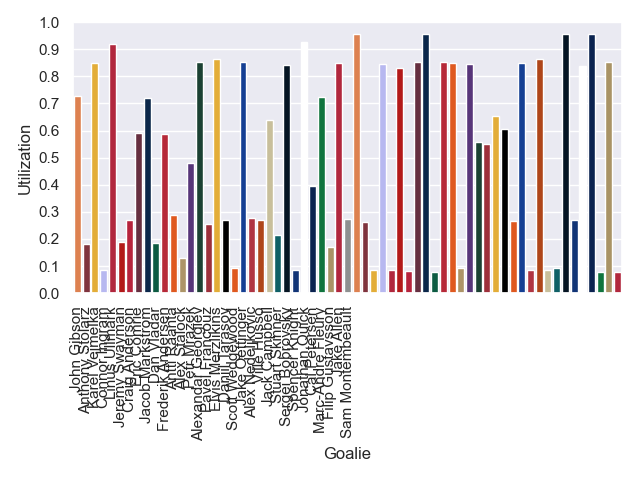
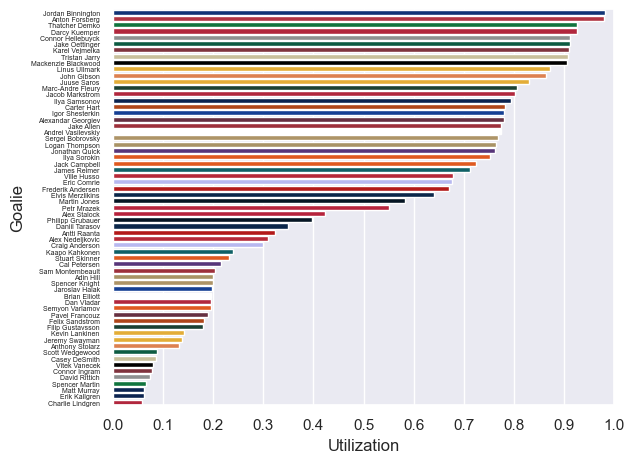
Add new file writter, plotter, update utilization -Add new file writter for player data which inclues the players team 	which is used for later lookups -Add new plotter that ranks players by the stat given and colors them 	according to the team they play for -Add Utilization division by the number o

diff --git a/Plotter.py b/Plotter.py
@@ -4,13 +4,40 @@ import pandas as pd
 import matplotlib.pyplot as plotter
 
 
-team_color_hex_codes = [
-    "#F47A38", "#8C2633", "#FFB81C", "#ADAFFA", "#C8102E", "#CC0000", "#CF0A2C",
-    "#6F263D", "#002654", "#006847", "#CE1126", "#FF4C00", "#B9975B", "#572A84",
-    "#154734", "#AF1E2D", "#FFB81C", "#000000", "#FF4C00", "#0038A8", "#C52032",
-    "#C83C01", "#CFC493", "#006D75", "#001628", "#002F87", "#FFFFFF", "#00205B",
-    "#00843D", "#B4975A", "#C8102E", "#8E9090"
-]
+team_color_hex_codes = {
+    'Anaheim Ducks' : "#F47A38",
+    'Arizona Coyotes' : "#8C2633",
+    'Boston Bruins' : "#FFB81C",
+    'Buffalo Sabres' : "#ADAFFA",
+    'Calgary Flames' : "#C8102E",
+    'Carolina Hurricanes' : "#CC0000",
+    'Chicago Blackhawks' : "#CF0A2C",
+    'Colorado Avalanche' : "#6F263D",
+    'Columbus Blue Jackets' : "#002654",
+    'Dallas Stars' : "#006847",
+    'Detroit Red Wings' : "#CE1126",
+    'Edmonton Oilers' : "#FF4C00",
+    'Florida Panthers' : "#B9975B",
+    'Los Angeles Kings' : "#572A84",
+    'Minnesota Wild' : "#154734",
+    'Montréal Canadiens' : "#AF1E2D",
+    'Nashville Predators' : "#FFB81C",
+    'New Jersey Devils' : "#000000",
+    'New York Islanders' : "#FF4C00",
+    'New York Rangers' : "#0038A8",
+    'Ottawa Senators' : "#C52032",
+    'Philadelphia Flyers' : "#C83C01",
+    'Pittsburgh Penguins' : "#CFC493",
+    'San Jose Sharks' : "#006D75",
+    'Seattle Kraken' : "#001628",
+    'St. Louis Blues' : "#002F87",
+    'Tampa Bay Lightning' : "#FFFFFF",
+    'Toronto Maple Leafs' : "#00205B",
+    'Vancouver Canucks' : "#00843D",
+    'Vegas Golden Knights' : "#B4975A",
+    'Washington Capitals' : "#C8102E",
+    'Winnipeg Jets' : "#8E9090",
+}
 
 
 def plot_data_set(csv_file : str = "", axis : list = [],
@@ -18,10 +45,10 @@ def plot_data_set(csv_file : str = "", axis : list = [],
                   tick_set : list = [], image_file : str = "") -> None:
     plot_data = pd.read_csv(csv_file, delimiter='\t', encoding='utf-8')
     sns.set_theme()
-    team_palette = sns.color_palette(team_color_hex_codes)
+    team_palette = sns.color_palette(list(team_color_hex_codes.values()))
     plot = sns.barplot(data=plot_data, x=axis[0], y=axis[1],
         palette=team_palette)
-    plot.set(xticks=range(len(team_color_hex_codes)))
+    plot.set(xticks=range(len(list(team_color_hex_codes.values()))))
     plot.set_xticklabels(plot.get_xticklabels(), rotation=90,
         horizontalalignment='center')
     plotter.tight_layout()
@@ -38,12 +65,31 @@ def plot_trend_set(csv_file : str = "", axis : list = [],
     plot_data = pd.read_csv(csv_file, delimiter=',', encoding='utf-8')
     sns.set_theme()
     plotter.figure(figsize=(25, 10), dpi=100)
-    team_palette = sns.color_palette(team_color_hex_codes)
+    team_palette = sns.color_palette(list(team_color_hex_codes.values()))
     plot = sns.lineplot(data=plot_data, x=axis[0], y=axis[1],
         hue="Team", style="Division",palette=team_palette, marker='s')
     plot.set(yticks=tick_set)
     plotter.tick_params(axis='x', which='major', labelsize=8)
     plotter.legend(bbox_to_anchor=(1.05, 1), loc='upper left', borderaxespad=0)
     plotter.ylim(lower_bound, upper_bound)
+    plotter.savefig(image_file, bbox_inches='tight')
+    plotter.clf()
+
+def plot_player_ranking(csv_file : str = "", axis : list = [],
+                        upper_bound : float = 0.0, lower_bound : float = 0.0,
+                        tick_set : list = [], image_file : str = "") -> None:
+    plot_data = pd.read_csv(csv_file, delimiter='\t', encoding='utf-8')
+    plot_data = plot_data.sort_values(axis[1], ascending=False)
+    sns.set_theme()
+    player_color_sorted_list = []
+    for player in plot_data.loc[:,"Team"]:
+        player_color_sorted_list.append(team_color_hex_codes[player])
+    team_palette = sns.color_palette(player_color_sorted_list)
+    sns.barplot(data=plot_data, x=axis[1], y=axis[0], palette=team_palette)
+    plotter.tick_params(axis='y', which='major', labelsize=5)
+    plotter.tight_layout()
+    plotter.xlim(lower_bound, upper_bound)
+    if len(tick_set) > 0:
+        plotter.xticks(tick_set)
     plotter.savefig(image_file, bbox_inches='tight')
     plotter.clf()

diff --git a/Goalie_Metrics/Goalie_Utilization.py b/Goalie_Metrics/Goalie_Utilization.py
@@ -2,10 +2,11 @@ import requests
 import json
 
 if __name__ == "__main__":
-    from Goalie_List import get_active_goalies, populate_active_goalies
+    from Goalie_List import get_active_goalies, populate_active_goalies, \
+        get_team_IDs
 else:
     from Goalie_Metrics.Goalie_List import get_active_goalies, \
-        populate_active_goalies
+        populate_active_goalies, get_team_IDs
 
 goalie_utilization_ranking = {}
 
@@ -21,16 +22,25 @@ def get_time_on_ice():
     for goalie in active_goalies.keys():
         goalie_url = "https://statsapi.web.nhl.com/api/v1/people/" + \
         "{}/stats?stats=statsSingleSeason&season=20222023".format(
-            active_goalies[goalie])
+            active_goalies[goalie][0])
         web_data = requests.get(goalie_url)
         parsed_data = json.loads(web_data.content)
 
         if len(parsed_data["stats"][0]["splits"]) > 0:
+            records_url = \
+                "https://statsapi.web.nhl.com/api/v1/teams/" + \
+                "{}?expand=team.stats".format(
+                    get_team_IDs()[active_goalies[goalie][1]])
+            team_web_data = requests.get(records_url)
+            team_parsed_data = json.loads(team_web_data.content)
+
             time_on_ice = \
                 parsed_data["stats"][0]["splits"][0]["stat"]["timeOnIce"]
             time_on_ice = time_on_ice.split(":")
             goalie_utilization_ranking[goalie] = \
-                float(time_on_ice[0]) + (float(time_on_ice[1]) / 60)
+                (float(time_on_ice[0]) + (float(time_on_ice[1]) / 60)) / \
+                    team_parsed_data["teams"][0][
+                        "teamStats"][0]["splits"][0]["stat"]["gamesPlayed"]
 
 if __name__ == "__main__":
     print("goalie utilization")

diff --git a/PlayerEngine.py b/PlayerEngine.py
@@ -7,14 +7,15 @@ import json
 import requests
 
 # import all custom modules for parsing
-from CSV_Writer import *
+from CSV_Writer import write_out_player_file
 
 # import all custom modules for statistical analysis
-from Goalie_Metrics.Goalie_List import populate_active_goalies
+from Goalie_Metrics.Goalie_List import populate_active_goalies, \
+    get_active_goalies
 from Goalie_Metrics.Goalie_Utilization import get_goalie_utilization_ranking, \
     get_time_on_ice
 from Sigmoid_Correction import apply_sigmoid_correction
-from Plotter import plot_data_set, plot_trend_set
+from Plotter import plot_player_ranking
 
 
 sigmiod_ticks = [0.0, 0.1, 0.2, 0.3, 0.4, 0.5, 0.6, 0.7, 0.8, 0.9, 1.0]
@@ -90,8 +91,11 @@ if __name__ == "__main__":
     get_time_on_ice()
     goalie_utilization = apply_sigmoid_correction(
         get_goalie_utilization_ranking())
-    write_out_file("Output_Files/Goalie_Files/Instance_Files/Utilization.csv",
-        ["Goalie", "Utilization"], goalie_utilization)
-    plot_data_set("Output_Files/Goalie_Files/Instance_Files/Utilization.csv",
+    write_out_player_file(
+        "Output_Files/Goalie_Files/Instance_Files/Utilization.csv",
+        ["Goalie", "Utilization", "Team"], goalie_utilization,
+        get_active_goalies())
+    plot_player_ranking(
+        "Output_Files/Goalie_Files/Instance_Files/Utilization.csv",
         ["Goalie", "Utilization"], 1.0, 0.0, sigmiod_ticks,
         "Graphs/Goalies/Utilization/utilization_corrected.png")

diff --git a/CSV_Writer.py b/CSV_Writer.py
@@ -1,19 +1,30 @@
 import csv
 import datetime
-from encodings.utf_8 import encode
 from Weights import *
+
 
 def write_out_file(file_name : str = "", header_row : list = [],
                    rating_list : dict = {}) -> None:
-
     with open(file_name, 'w', newline='', encoding='utf-8') as csv_data_file:
         csv_writer = csv.writer(csv_data_file, delimiter = '\t', quotechar='|', 
             quoting=csv.QUOTE_MINIMAL)
         csv_writer.writerow(header_row)
         for key in rating_list.keys():
-            # if (team == "Montréal Canadiens") :
             csv_writer.writerow([key, str(rating_list[key])])
-            # print("{} : {}".format(team, str(rating_list[team])))
+
+
+def write_out_player_file(file_name : str = "", header_row : list = [],
+                          rating_list : dict = {}, player_list : dict = {}) \
+                                                                    -> None:
+    with open(file_name, 'w', newline='', encoding='utf-8') as csv_date_file:
+        csv_writer = csv.writer(csv_date_file, delimiter='\t', quotechar='|',
+            quoting=csv.QUOTE_MINIMAL)
+
+        # for each player print the player, the stat and the team they're on
+        csv_writer.writerow(header_row)
+        for key in rating_list.keys():
+            data_list = [key, rating_list[key], player_list[key][1]]
+            csv_writer.writerow(data_list)
 
 
 def update_trend_file(file_name : str = "", stat_dict : dict = {}) -> None:

diff --git a/Goalie_Metrics/Goalie_List.py b/Goalie_Metrics/Goalie_List.py
@@ -38,8 +38,14 @@ team_codes = {
     'Winnipeg Jets' : 52,
 }
 
+
 def get_active_goalies() -> dict:
     return active_goalies
+
+
+def get_team_IDs() -> dict:
+    return team_codes
+
 
 def populate_active_goalies() -> None:
 
@@ -60,7 +66,8 @@ def populate_active_goalies() -> None:
             # if the player is a Goalie, add them to the dict
             if player["position"]["name"] == "Goalie":
                 active_goalies[player["person"]["fullName"]] = \
-                    player["person"]["id"]
+                    [player["person"]["id"], parsed_data["teams"][0]["name"]]
+                
 
 if __name__ == "__main__":
     populate_active_goalies()
